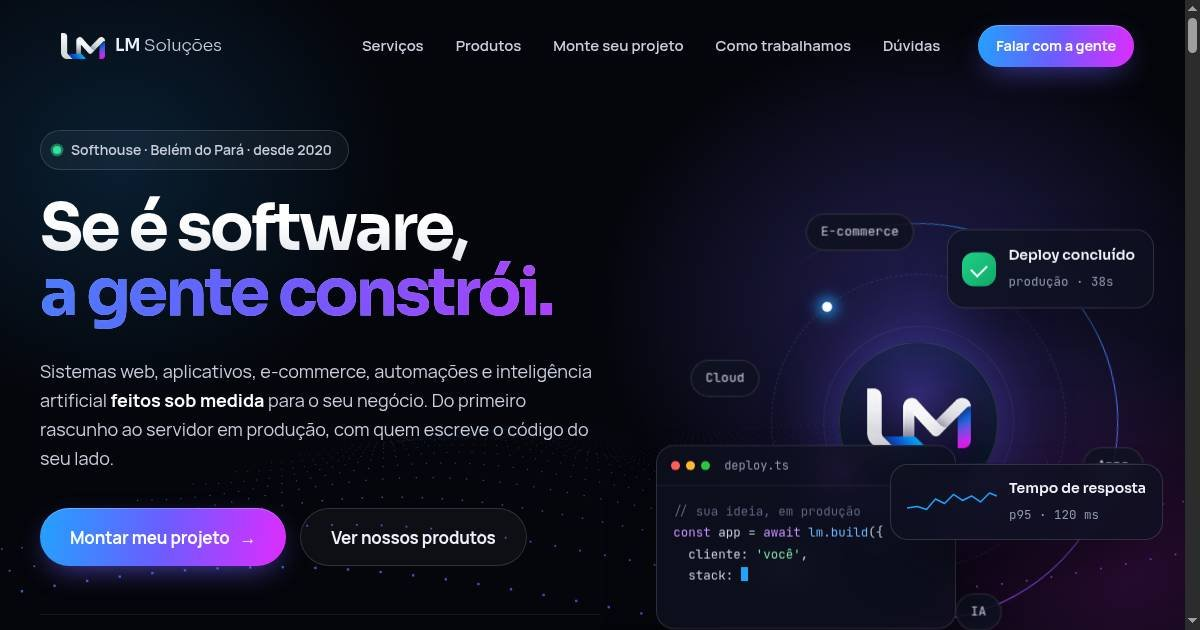
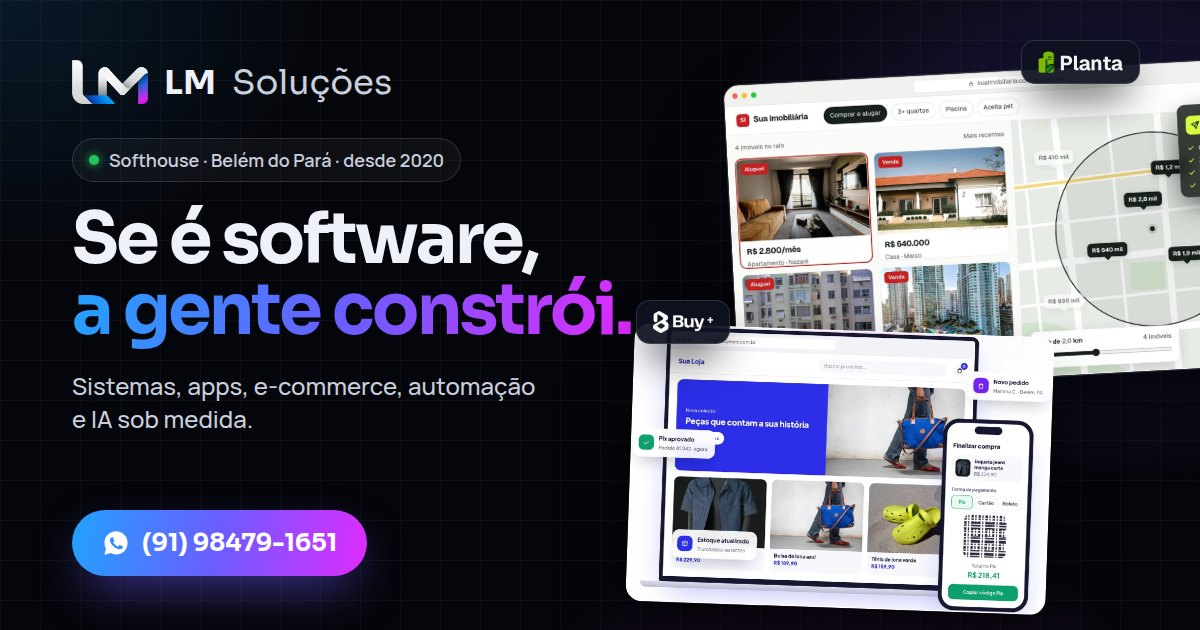
Novo card de compartilhamento com os produtos Planta e Buy+

diff --git a/index.html b/index.html
@@ -9,7 +9,16 @@
 <meta property="og:title" content="LM Soluções · Se é software, a gente constrói">
 <meta property="og:description" content="Softhouse de Belém do Pará. Sistemas, apps, e-commerce, automação e IA sob medida, desde 2020.">
 <meta property="og:url" content="https://lmsolucoes.net/">
-<meta property="og:image" content="https://lmsolucoes.net/assets/og-image.jpg">
+<meta property="og:image" content="http://lmsolucoes.net/assets/og-image.jpg?v=2">
+<meta property="og:image:type" content="image/jpeg">
+<meta property="og:image:width" content="1200">
+<meta property="og:image:height" content="630">
+<meta property="og:image:alt" content="LM Soluções: se é software, a gente constrói">
+<meta property="og:site_name" content="LM Soluções">
+<meta name="twitter:card" content="summary_large_image">
+<meta name="twitter:title" content="LM Soluções · Se é software, a gente constrói">
+<meta name="twitter:description" content="Softhouse de Belém do Pará. Sistemas, apps, e-commerce, automação e IA sob medida, desde 2020.">
+<meta name="twitter:image" content="http://lmsolucoes.net/assets/og-image.jpg?v=2">
 <link rel="canonical" href="https://lmsolucoes.net/">
 <meta property="og:type" content="website">
 <meta property="og:locale" content="pt_BR">
